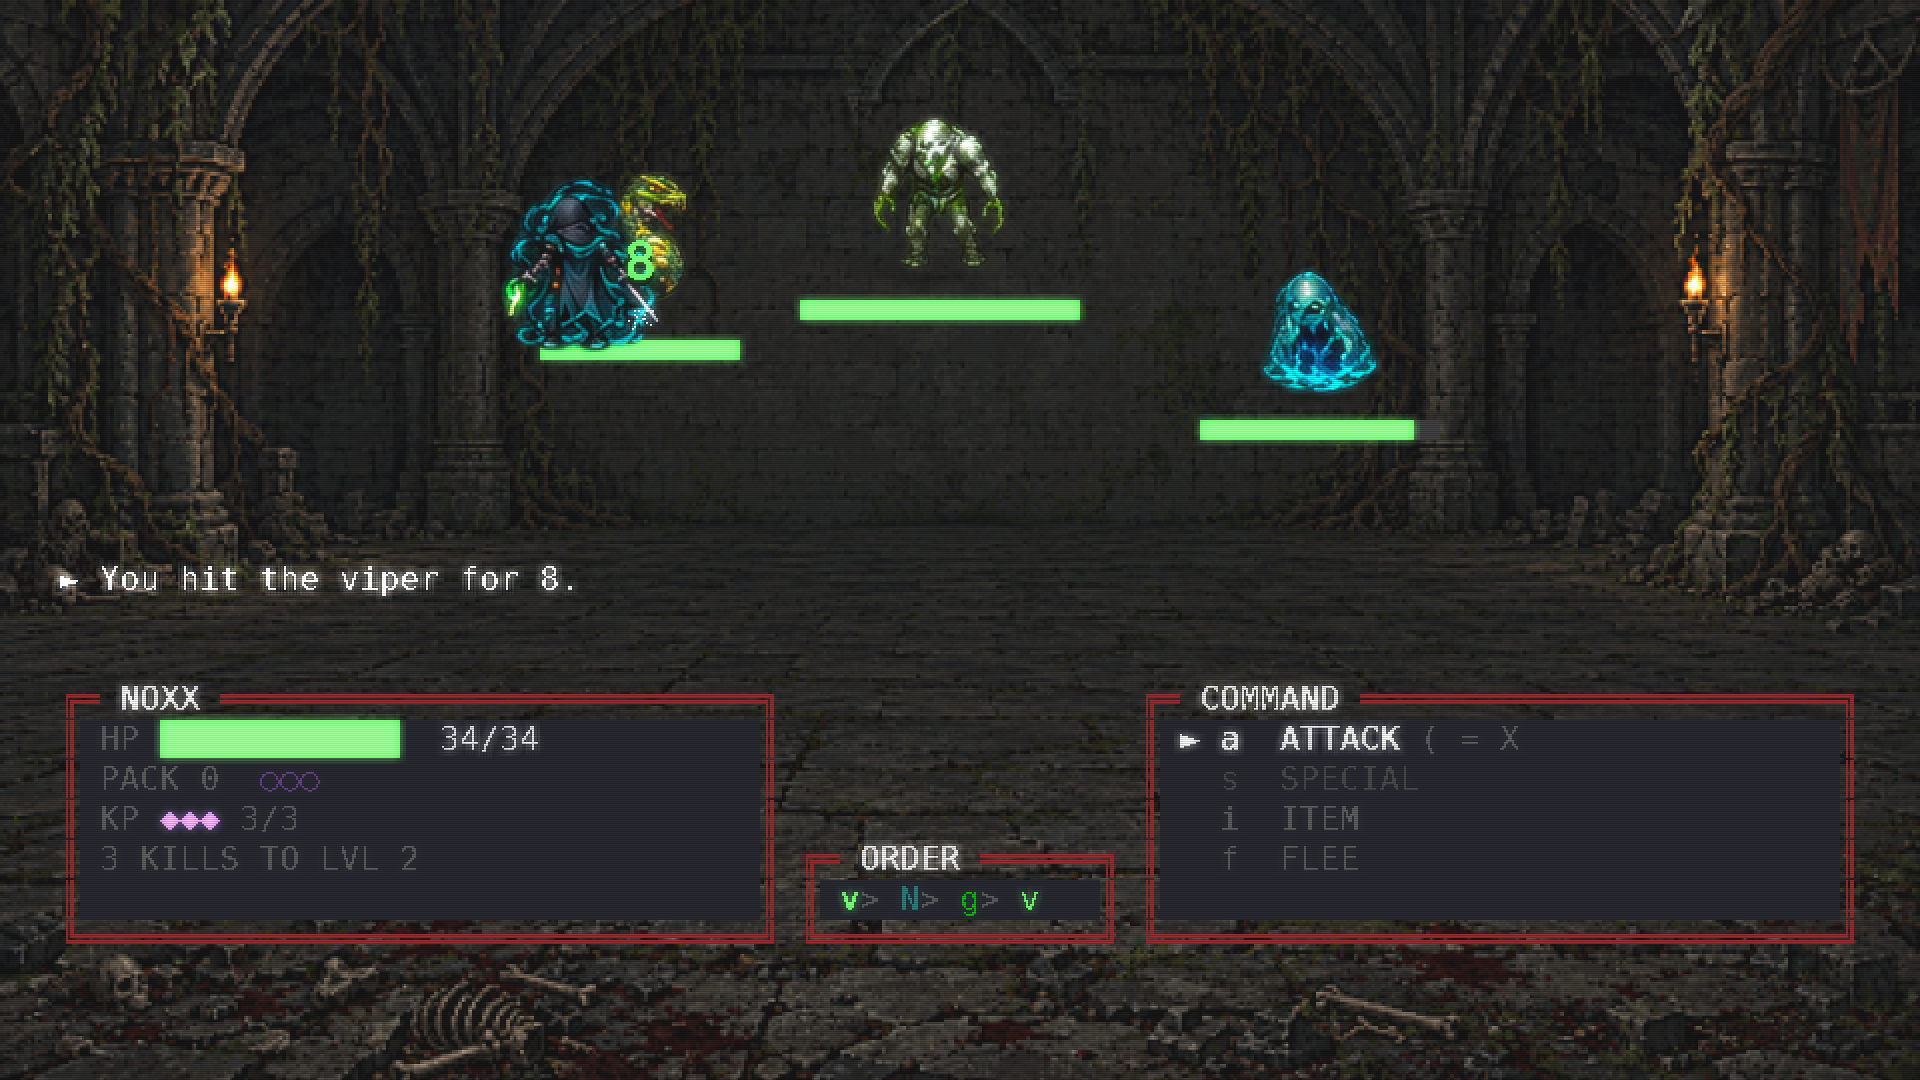
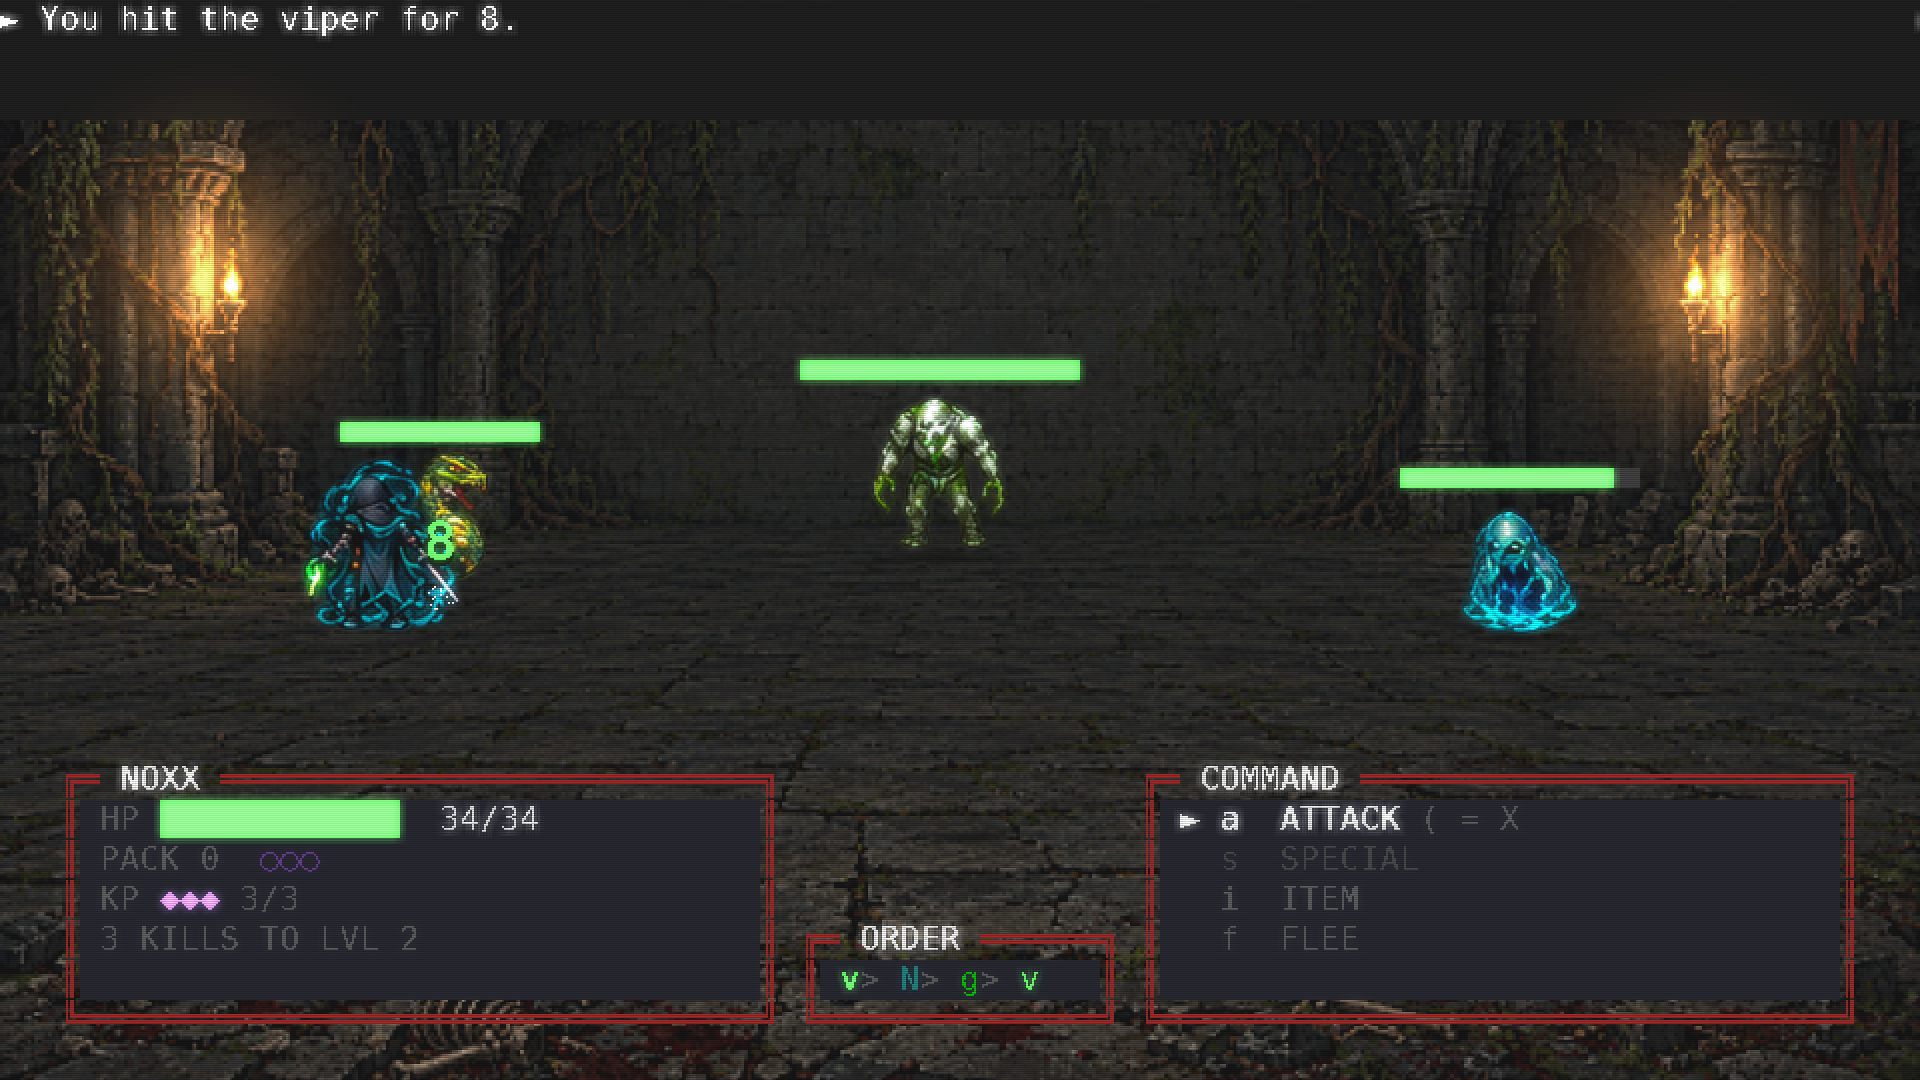
the stage up a row, the shadows deeper, and light on the torches
Three things asked for in one breath, and they are three different kinds of thing:
where the fight stands, what it stands on, and what the room does.

* The whole stage moves up one row -- a quarter of a Noxx, near enough. One
  constant, and only one, because everything the stage puts down is placed *from*
  the figure's row: the sprite, the stripe over its head, the wound symbols at the
  end of the stripe, the aim arrow over both. Lifting the row lifts the lot, and a
  second dial for the bars would have been a second thing to keep in step.

* The shadows were never gone -- I measured them, and they were drawing 1462
  pixels a frame -- they were *invisible*: black at three quarters of nothing over
  a floor that is already dark stone. Deeper (190 at the core), wider (a quarter
  again), and softer at the rim, so the pool reads as ground under a figure. They
  were drawn first and under the sprites all along, which is why nothing can lie
  over a figure: it stands *on* its shadow.

* The painting's two torches are lit. A painted flame is a picture of a flame and
  cannot flicker, so the light over it is drawn -- a warm radial ramp laid on
  *additively* (a ramp in colour, not in alpha, because additive blending adds
  colour and adding nothing is what a rim does) -- and it breathes: 0.86 to 1.16
  of its size, on two harmonics so the pulse is not a metronome. It is asked for
  only when the room *is* the painting: the torches are the painting's, and a room
[…]

diff --git a/tests/test_sdl_front.py b/tests/test_sdl_front.py
@@ -2211,3 +2211,169 @@ def test_the_arena_can_be_one_painting_instead_of_tiles():
         if grid.cells[row][column].style.bg is not None
     )
     assert left == 0, f"{left} cells of cell floor are still under the painting"
+
+
+def test_the_whole_stage_can_be_lifted_by_a_row_at_a_time():
+    """A quarter of a Noxx, asked of the staging and not of the pixels.
+
+    Everything the stage puts down is placed *from* the figure's row -- the sprite,
+    the stripe over its head, the wound symbols at the end of the stripe, the aim
+    arrow over both -- so one lift moves all of them and none of them can be left
+    behind. That is the fact worth holding: not that the figures are twenty pixels
+    higher, but that they are higher *together*.
+    """
+    from neverdeads_revenge.desktop.screens import battle as rules
+    from neverdeads_revenge.sdl_front.app import SdlApp
+
+    app = SdlApp(seed=3, battle_scene=True, no_sound=True)
+    arena = app.screens[-1]
+    here = arena.arena._figures(app.grid.cols, app.grid.rows, app.font)
+    assert rules.STAGE_LIFT >= 1, "the stage was asked to move and did not"
+
+    was = rules.STAGE_LIFT
+    rules.STAGE_LIFT = 0
+    try:
+        floor = arena.arena._figures(app.grid.cols, app.grid.rows, app.font)
+    finally:
+        rules.STAGE_LIFT = was
+    assert len(here) == len(floor)
+    for lifted, sat in zip(here, floor):
+        assert lifted.actor is sat.actor
+        assert sat.row - lifted.row == was, (
+            f"{lifted.actor.name} did not move with the stage: {sat.row} -> {lifted.row}"
+        )
+
+
+def test_a_shadow_lies_under_a_figure_and_fades_towards_its_rim():
+    """The pool of ground, asked of the frame -- twice over.
+
+    It has to be a shadow *under* a figure, which is two claims: that taking it
+    away changes the frame at all on a floor this dark, and that what it changes is
+    below the sprite and not across it. And it has to be a gradient, which is the
+    reason it is drawn and not written into the cells: the rim must be less than the
+    core, or it is a rectangle of black under a painter's figure.
+    """
+    from neverdeads_revenge.sdl_front.app import SdlApp
+    from neverdeads_revenge.sdl_front import stage as art
+
+    app = SdlApp(seed=3, battle_scene=True, no_sound=True)
+    arena = app.screens[-1]
+    app.redraw()
+    with_pool = app._surface.copy()
+
+    kept = art.Stage.shadow
+    art.Stage.shadow = lambda *args, **kwargs: None
+    try:
+        app.redraw()
+    finally:
+        art.Stage.shadow = kept
+    without = app._surface.copy()
+
+    figure = next(
+        one
+        for one in arena.arena._figures(app.grid.cols, app.grid.rows, app.font)
+        if one.art is not None
+    )
+    feet = figure.row * app.font.cell_h - 5
+    box = (figure.cx - 60, feet, figure.cx + 60, feet + 20)
+    assert _changed(without, with_pool, box) > 40, "the shadow is not there at all"
+    # Over the sprite's own band nothing of it shows: it is drawn first, so a
+    # figure stands *on* its shadow instead of wearing it.
+    body = (figure.cx - 20, feet - 60, figure.cx + 20, feet - 6)
+    assert _changed(without, with_pool, body) == 0, "the shadow was drawn over a figure"
+
+    # The gradient: the darkest ring is the middle and the edge is nearly nothing.
+    assert sum(with_pool.get_at((figure.cx, feet + 4))[:3]) < sum(
+        without.get_at((figure.cx, feet + 4))[:3]
+    ), "the shadow did not darken the floor"
+    core = sum(with_pool.get_at((figure.cx, feet + 4))[:3])
+    rim = sum(with_pool.get_at((figure.cx + 55, feet + 4))[:3])
+    assert core < rim, f"the shadow has no rim to fade to: core {core}, rim {rim}"
+
+
+def test_the_paintings_torches_are_lit_and_the_light_breathes():
+    """The two flames in the painting, asked of the frame and of the clock.
+
+    A painted torch is a *picture* of a torch: it cannot flicker, which is the one
+    thing a torch does. So the light over it is drawn, additively, and it is asked
+    for at two moments of its own clock -- if the two frames agree, there is no
+    breath.
+
+    Asked of the light *alone*, by laying it over one frame twice: the room also
+    breathes (the figures move on the same clock), so two redraws a clock apart
+    would answer about the figures. And asked once with the room made of the game's
+    own stones: the torches are the painting's, so a tiled room must not be lit by
+    them, which here means the frame comes back untouched.
+    """
+    from neverdeads_revenge.sdl_front.app import SdlApp
+    from neverdeads_revenge.sdl_front.paint import load
+    from neverdeads_revenge.sdl_front.stage import TORCHES
+
+    painting = load("backdrops/arena.png")
+    assert painting is not None, "this front end has no painting to light"
+    own_w, own_h = painting.get_size()
+
+    def where(width: int, height: int, fx: float, fy: float) -> tuple[int, int]:
+        factor = max(width / own_w, height / own_h)
+        span_w, span_h = own_w * factor, own_h * factor
+        return (
+            round(fx * span_w - (span_w - width) / 2),
+            round(fy * span_h - (span_h - height) / 2),
+        )
+
+    app = SdlApp(seed=3, battle_scene=True, no_sound=True)
+    arena = app.screens[-1]
+    app.redraw()
+    width, height = app._surface.get_size()
+    stage = arena._stage
+
+    def lit(clock: float):
+        frame = app._surface.copy()
+        stage.glow(frame, width, height, clock)
+        return frame
+
+    early, late = lit(0.0), lit(0.75)
+    for fx, fy in TORCHES:
+        cx, cy = where(width, height, fx, fy)
+        box = (max(0, cx - 90), max(0, cy - 90), min(width, cx + 90), min(height, cy + 90))
+        assert _changed(early, late, box) > 500, (
+            f"the light on the torch at {fx:.3f} never moved"
+        )
+    # Somewhere far from both torches the room is steady: the light is theirs.
+    quiet = (width // 2 - 60, height - 90, width // 2 + 60, height - 60)
+    assert _changed(early, late, quiet) == 0, "the whole room breathed"
+
+    # And it is light and not paint: laid additively, every pixel it touches comes
+    # out brighter and none comes out darker.
+    for x in range(0, width, 7):
+        for y in range(0, height, 7):
+            was, now = early.get_at((x, y))[:3], late.get_at((x, y))[:3]
+            assert all(a >= b for a, b in zip(now, was)), (
+                f"the light darkened ({x}, {y}): {was} -> {now}"
+            )
+
+    # A room of the game's own stones: the light is not laid on it at all. Asked
+    # of the *call* and not of the frame, because this room breathes too -- the
+    # figures move on the same clock, and two frames would answer about them.
+    from neverdeads_revenge.sdl_front import stage as art
+
+    lit_calls: list = []
+    kept = art.Stage.glow
+
+    def note(self, *args, **kwargs):
+        lit_calls.append(args)
+
+    art.Stage.glow = note
+    try:
+        tiled = SdlApp(seed=3, battle_scene=True, no_sound=True, backdrop=False)
+        tiled.redraw()
+        assert lit_calls == [], "a tiled room was lit by the painting's torches"
+        tiled.screens[-1].arena._clock = 0.75
+        tiled.redraw()
+        assert lit_calls == [], "a tiled room was lit by the painting's torches"
+        # And with the painting it is asked for, once a frame: the dial is the
+        # painting and there is no second dial for the light.
+        app.redraw()
+    finally:
+        art.Stage.glow = kept
+    assert len(lit_calls) == 1, f"the light was asked for {len(lit_calls)} times"

diff --git a/src/neverdeads_revenge/sdl_front/stage.py b/src/neverdeads_revenge/sdl_front/stage.py
@@ -44,6 +44,10 @@ __all__ = ["Stage"]
 FADE_ALPHA = 140
 FADE_COLOUR = (6, 6, 10)
 
+#: Where the painting's two torches are, as shares of the painting itself.
+#: Measured off the picture: the bright pixels of the flames, left and right.
+TORCHES = ((0.110, 0.250), (0.890, 0.267))
+
 
 class Stage:
     """The painted room: the floor, the bars, the shadows and the figures.
@@ -64,6 +68,7 @@ class Stage:
         #: The backdrop, fitted to the room once and blitted after: the painting
         #: is four megapixels and scaling that per frame is a crawl.
         self._fitted: dict[tuple[int, int], object] = {}
+        self._lamp: object | None = None
 
     # -- the art ------------------------------------------------------------
     def tile(self, name: str):
@@ -321,12 +326,17 @@ class Stage:
         Drawn rather than written into the grid, because a shadow is the one thing
         here that has to have soft edges: a rectangle of black cells under a
         painted sprite reads as a hole in the floor.
+
+        It was always here and always under the sprite -- and nobody could see it:
+        black at three quarters of nothing over a floor that is already dark stone
+        is a shadow in the arithmetic and not on the screen. Deeper, and wider at
+        the rim, so that the pool *reads* as ground under a figure.
         """
         if fade <= 0.0:
             return
         import pygame
 
-        width = max(20.0, float(figure.cells * font.cell_w) * 1.05)
+        width = max(24.0, float(figure.cells * font.cell_w) * 1.25)
         height = max(6.0, width * 0.24)
         pool = self._pool()
         scaled = pygame.transform.smoothscale(pool, (round(width), round(height)))
@@ -336,6 +346,72 @@ class Stage:
             scaled,
             (round(figure.cx - width / 2.0), round(centre_y - height / 2.0)),
         )
+
+    def glow(self, surface, width: int, height: int, clock: float) -> None:
+        """Light on the two torches in the painting, breathing.
+
+        The painting brought its own flames and they are, of course, painted: they
+        do not move. A light that grows and shrinks over each of them is the whole
+        difference between a *picture* of a lit room and a room that is lit -- and
+        it costs two additive blits a frame.
+
+        A radial ramp in *colour* and not in alpha, because the blend is additive:
+        what it adds is the light, and adding nothing is what the rim does.
+
+        The torches' places are *the painting's*, so they are mapped the way the
+        painting was fitted and not as shares of the frame: the two agree at
+        sixteen by nine, where the fit crops nothing, and stop agreeing in a
+        fullscreen of another shape, where the fit does.
+        """
+        if not TORCHES:
+            return
+        image = load("backdrops/arena.png")
+        if image is None:
+            return
+        import pygame
+
+        own_w, own_h = image.get_size()
+        factor = max(width / own_w, height / own_h)
+        span_w, span_h = own_w * factor, own_h * factor
+        off_x, off_y = (span_w - width) / 2.0, (span_h - height) / 2.0
+        pool = self._light()
+        breath = 0.5 + 0.5 * math.sin(clock * 2.1)
+        wobble = 0.5 + 0.5 * math.sin(clock * 3.7 + 1.0)
+        for fx, fy in TORCHES:
+            scale = 0.86 + 0.24 * breath + 0.06 * wobble
+            side = max(8, round(220 * scale))
+            lit = pygame.transform.smoothscale(pool, (side, side))
+            surface.blit(
+                lit,
+                (
+                    round(fx * span_w - off_x - side / 2),
+                    round(fy * span_h - off_y - side / 2),
+                ),
+                special_flags=pygame.BLEND_RGB_ADD,
+            )
+
+    def _light(self):
+        """The ramp a torch's light is made of, drawn once: warm, and to nothing."""
+        if self._lamp is None:
+            import pygame
+
+            size = 220
+            lamp = pygame.Surface((size, size))
+            half = size // 2
+            for step in range(half, 0, -1):
+                share = 1.0 - step / half
+                level = share**2.2
+                pygame.draw.ellipse(
+                    lamp,
+                    (
+                        round(150 * level),
+                        round(96 * level),
+                        round(44 * level),
+                    ),
+                    pygame.Rect(half - step, half - step, step * 2, step * 2),
+                )
+            self._lamp = lamp
+        return self._lamp
 
     def _pool(self):
         """The gradient a shadow is made of, drawn once and stretched per figure.
@@ -350,7 +426,7 @@ class Stage:
             pool = pygame.Surface((size, size), pygame.SRCALPHA)
             half = size // 2
             for step in range(half, 0, -1):
-                alpha = round(120 * (1.0 - step / half) ** 1.4)
+                alpha = round(190 * (1.0 - step / half) ** 1.2)
                 pygame.draw.ellipse(
                     pool,
                     (0, 0, 0, alpha),

diff --git a/src/neverdeads_revenge/desktop/screens/battle.py b/src/neverdeads_revenge/desktop/screens/battle.py
@@ -190,6 +190,15 @@ ROWS: dict[int, tuple[tuple[float, float], ...]] = {
 #: of the band (which is what a depth is) would not.
 HERO_DROP = 7
 
+#: How far up the whole stage stands, in rows, from the row it was laid out on.
+#:
+#: A quarter of a Noxx, near enough: twenty pixels, which is one row. The figures,
+#: their stripes, their wound symbols and the aim arrow are all placed *from* the
+#: row, so lifting the row lifts every one of them together -- which is the only
+#: way they stay in step. The floor band does not move: the room is where it was
+#: and the fight stands a little higher in it.
+STAGE_LIFT = 1
+
 #: How big a letter stands, in font pixels. The hero is nearest and largest; the
 #: monsters scale with their depth.
 MONSTER_SIZES = (62, 52, 46)
@@ -2566,7 +2575,7 @@ class BattleScreen(Screen):
                     colour=enemy.color,
                     size=size,
                     cx=(centre + round(lane * width) + 1) * cell_w,
-                    row=y0 + max(1, round(depth * height)),
+                    row=y0 + max(1, round(depth * height)) - STAGE_LIFT,
                     cells=self._span(art, cell_w),
                     chosen=enemy is marked,
                     art=art,
@@ -2583,7 +2592,7 @@ class BattleScreen(Screen):
                 colour=hero.color,
                 size=size,
                 cx=(centre + 1) * cell_w,
-                row=y0 + height - 1 + HERO_DROP,
+                row=y0 + height - 1 + HERO_DROP - STAGE_LIFT,
                 cells=self._span(art, cell_w),
                 art=art,
                 # In front of the row and out of step with it: the hero breathes

diff --git a/src/neverdeads_revenge/sdl_front/arena.py b/src/neverdeads_revenge/sdl_front/arena.py
@@ -150,6 +150,13 @@ class SdlArena(Screen):
             self._stage.floor(surface, field)
             if not self._stage.wall(surface, field):
                 self._hash_walls(surface, app, field)
+        # The light on the painting's torches, over the room and under the fight.
+        # Only with a painting: the torches are the painting's, and a room made of
+        # the game's own stones has no flames to be lit by.
+        if self.backdrop:
+            self._stage.glow(
+                surface, surface.get_width(), surface.get_height(), self.arena._clock
+            )
         self._stage.health(
             surface, figures, font, self.arena._shown, self.battle.hero, fades
         )
